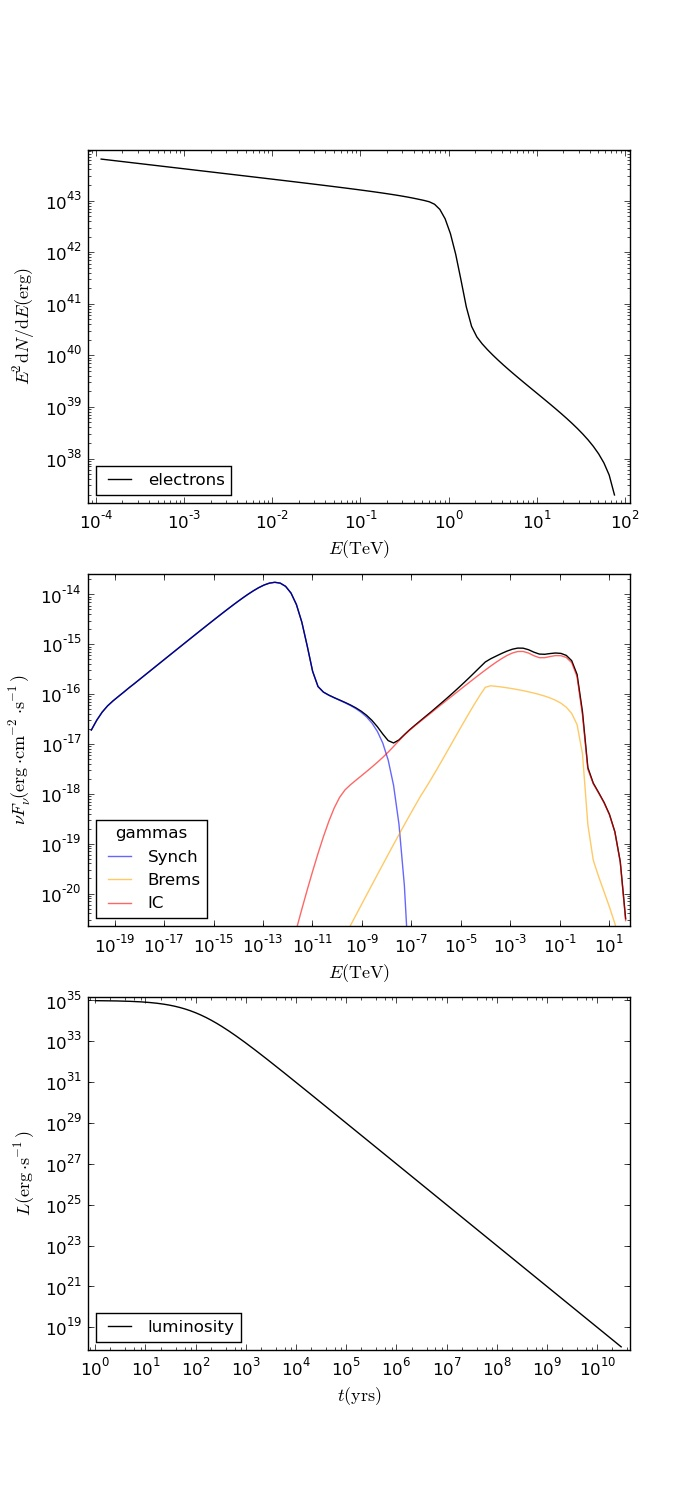
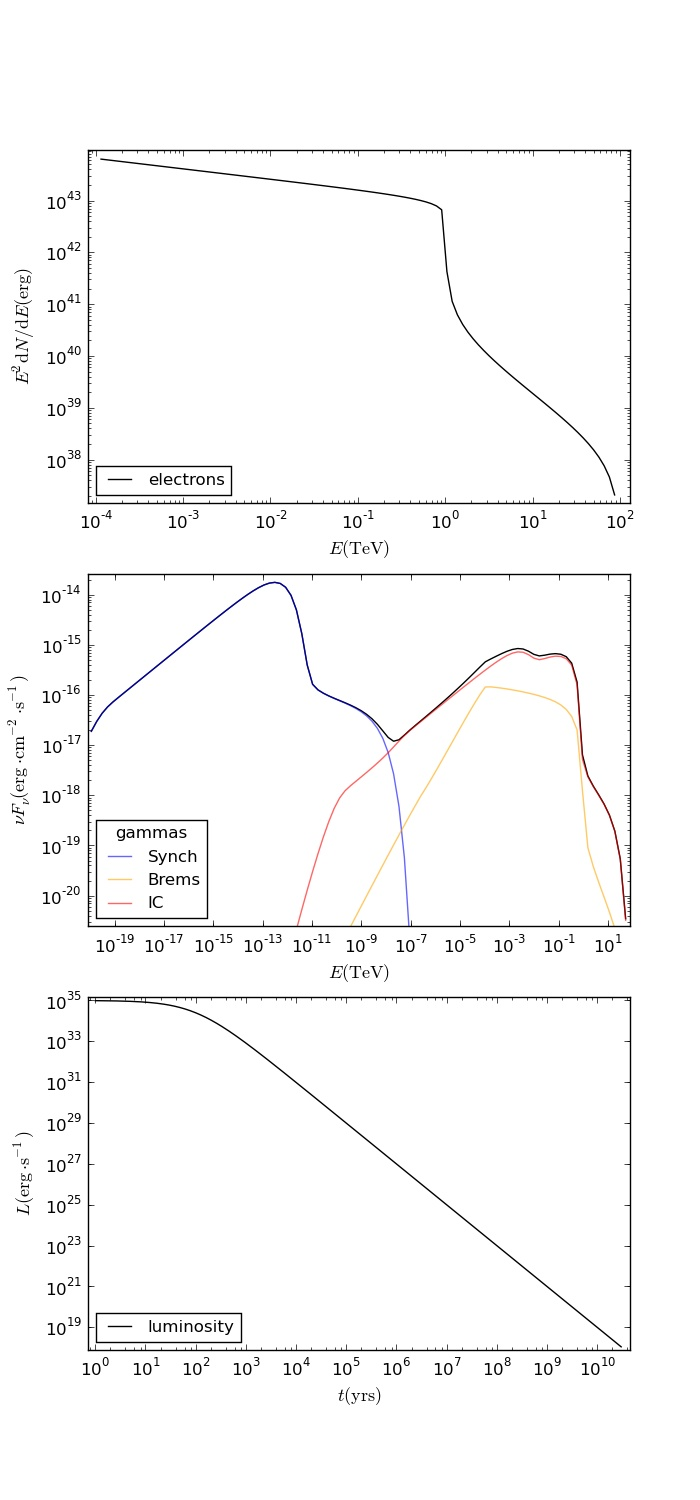
Particles: CalculateTimeInterval: now externally set Tmin value is used there. Allows for computation of evolutions below the default minimum time-scale (1yr).

diff --git a/docu/tutorial/TutorialLevel4.py b/docu/tutorial/TutorialLevel4.py
@@ -49,12 +49,12 @@ if __name__ == "__main__":
   lum = float(configParser.get('Parameters','Luminosity'))
   age = float(configParser.get('Parameters','Age'))
   tc = float(configParser.get('Parameters','CharAge'))
-  dist = gp.pc_to_cm*float(configParser.get('Parameters','Distance'))
+  dist = float(configParser.get('Parameters','Distance'))
   dens = float(configParser.get('Parameters','AmbientDensity'))
   bfield = float(configParser.get('Parameters','BField'))
   t = float(configParser.get('Parameters','tRAD'))
-  e = gp.TeV_to_erg*1.e-12*float(configParser.get('Parameters','edensRAD'))
-  ebins = float(configParser.get('Parameters','Ebins'))
+  e = gp.eV_to_erg*float(configParser.get('Parameters','edensRAD'))
+  ebins = int(configParser.get('Parameters','Ebins'))
   emax = gp.TeV_to_erg*float(configParser.get('Parameters','Emax'))
   emin = gp.TeV_to_erg*float(configParser.get('Parameters','Emin'))
   ebreak = gp.TeV_to_erg*float(configParser.get('Parameters','Ebreak'))
@@ -81,7 +81,6 @@ if __name__ == "__main__":
   fp.SetBreakEnergy(ebreak)
   fp.SetLowSpectralIndex(spindlow)
   fp.SetSpectralIndex(spindhigh)
-  fp.SetEnergyBinsForNumericalSolver(ebins)
   fp.SetAge(age)
 
   # set radiation stuff
@@ -108,7 +107,7 @@ if __name__ == "__main__":
     fp.SetAge(i)
     fr.SetAmbientDensity(fp.GetAmbientDensity())
     fr.SetBField(fp.GetBField())
-    fp.CalculateParticleSpectrum("electrons")
+    fp.CalculateElectronSpectrum(ebins)
     fr.SetElectrons(fp.GetParticleSpectrum())
     fr.CalculateDifferentialPhotonSpectrum()
 

diff --git a/docu/tutorial/TutorialLevel2.py b/docu/tutorial/TutorialLevel2.py
@@ -44,7 +44,7 @@ if __name__ == "__main__":
   dens = float(configParser.get('Parameters','AmbientDensity'))
   bfield = float(configParser.get('Parameters','BField'))
   t = float(configParser.get('Parameters','tRAD'))
-  e = gp.TeV_to_erg*1.e-12*float(configParser.get('Parameters','edensRAD'))
+  e = gp.eV_to_erg*float(configParser.get('Parameters','edensRAD'))
   ebins = float(configParser.get('Parameters','Ebins'))
   emax = gp.TeV_to_erg*float(configParser.get('Parameters','Emax'))
   emin = gp.TeV_to_erg*float(configParser.get('Parameters','Emin'))
@@ -69,7 +69,7 @@ if __name__ == "__main__":
   fr.SetDistance(dist)
   fr.SetAmbientDensity(fp.GetAmbientDensity())
   fr.SetBField(fp.GetBField())
-  fr.AddThermalTargetPhotons(2.7,0.25*1.602*1.e-12)
+  fr.AddThermalTargetPhotons(2.7,0.25*gp.eV_to_erg)
   fr.AddThermalTargetPhotons(t,e)
   fr.CreateICLossLookup()
   fp.SetICLossLookup(fr.GetICLossLookup())

diff --git a/src/Particles.C b/src/Particles.C
@@ -187,7 +187,7 @@ void Particles::CalculateParticleSpectrum(string type, int bins, bool onlyprepar
       METHOD = 1;
     else METHOD = 2;
   }
-
+  std::cout<<" METHOD = "<<METHOD <<endl;
   if(escapeTimeConstant > 0. || escapeTimeLookup != NULL || 
      EscapeTimeEnergyTimeEvolution != NULL) METHOD = 0;
   /* determine time from where to start the iteration. Particles that would have
@@ -1012,6 +1012,8 @@ double Particles::MinMod(double a, double b) {
  */
 void Particles::ComputeGridInTimeInterval(double T1, double T2, string type, 
                                           int bins) {
+  
+  if (TminConstant) Tmin = TminConstant;
   if (T1 <= Tmin) {
     cout << "Particles::ComputeGridInTimeInterval T1<=internal min time (" << T1
          << "<=" << Tmin << "). set it artificially to " << Tmin << "yrs."

diff --git a/docu/tutorial/TutorialLevel3.py b/docu/tutorial/TutorialLevel3.py
@@ -30,7 +30,7 @@ if __name__ == "__main__":
   dens = float(configParser.get('Parameters','AmbientDensity'))
   bfield = float(configParser.get('Parameters','BField'))
   t = float(configParser.get('Parameters','tRAD'))
-  e = gp.TeV_to_erg*1.e-12*float(configParser.get('Parameters','edensRAD'))
+  e = gp.eV_to_erg*float(configParser.get('Parameters','edensRAD'))
   ebins = float(configParser.get('Parameters','Ebins'))
   emax = gp.TeV_to_erg*float(configParser.get('Parameters','Emax'))
   emin = gp.TeV_to_erg*float(configParser.get('Parameters','Emin'))
